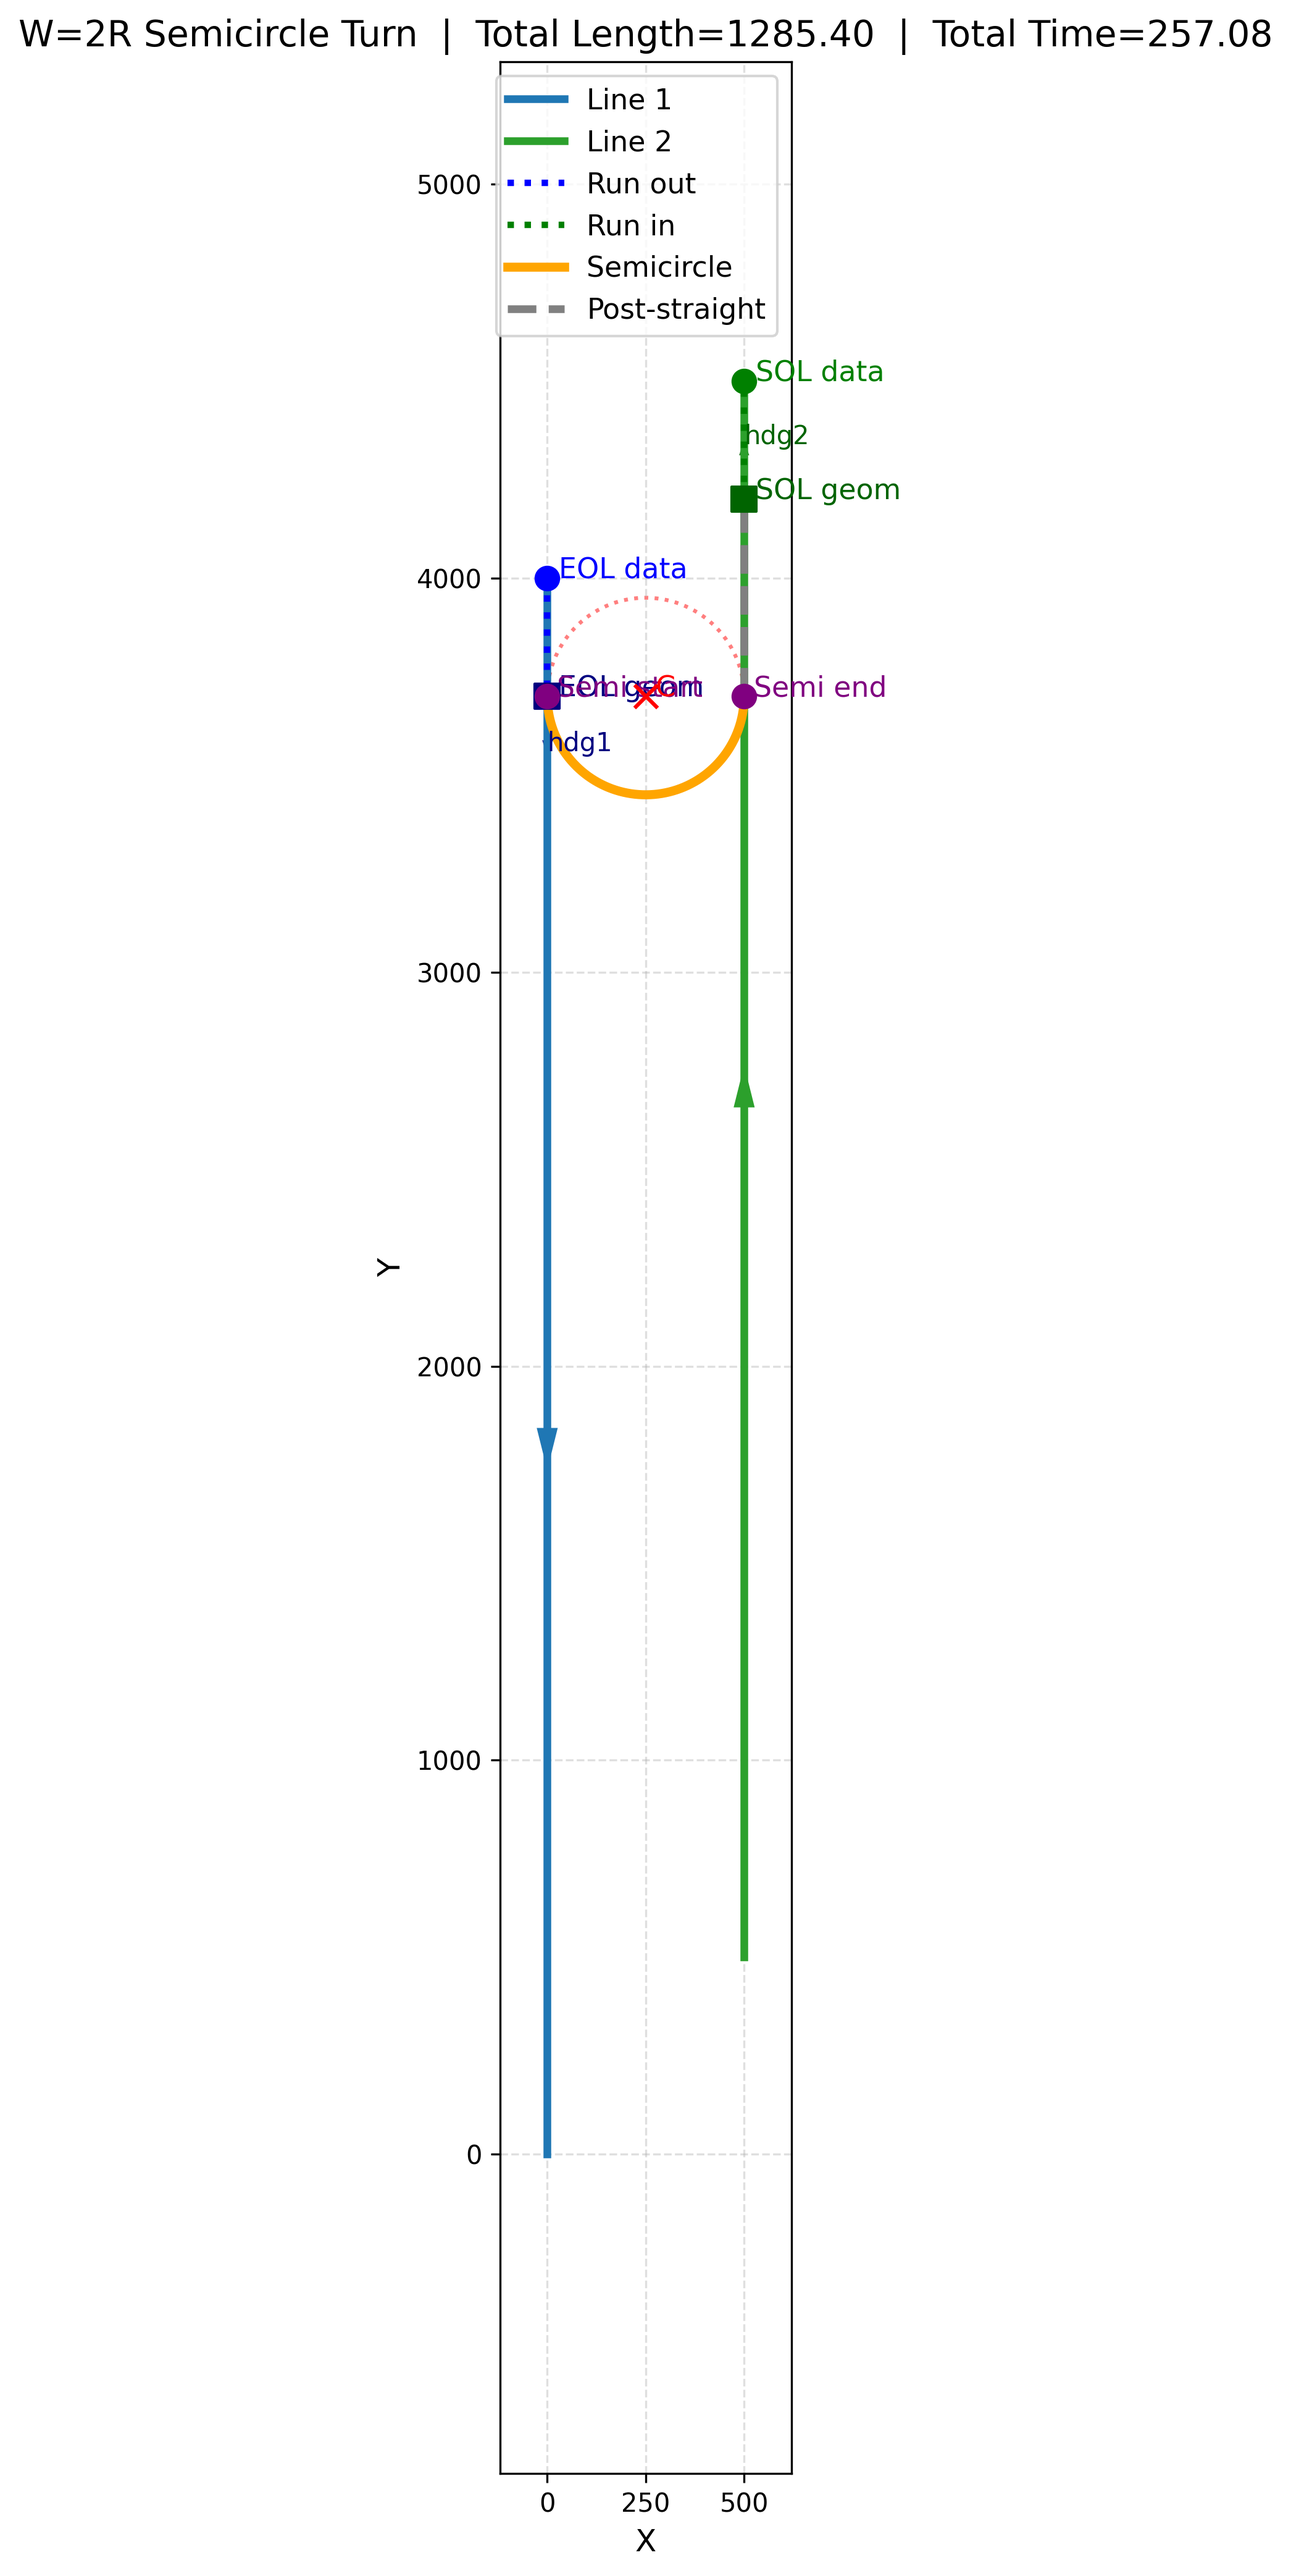
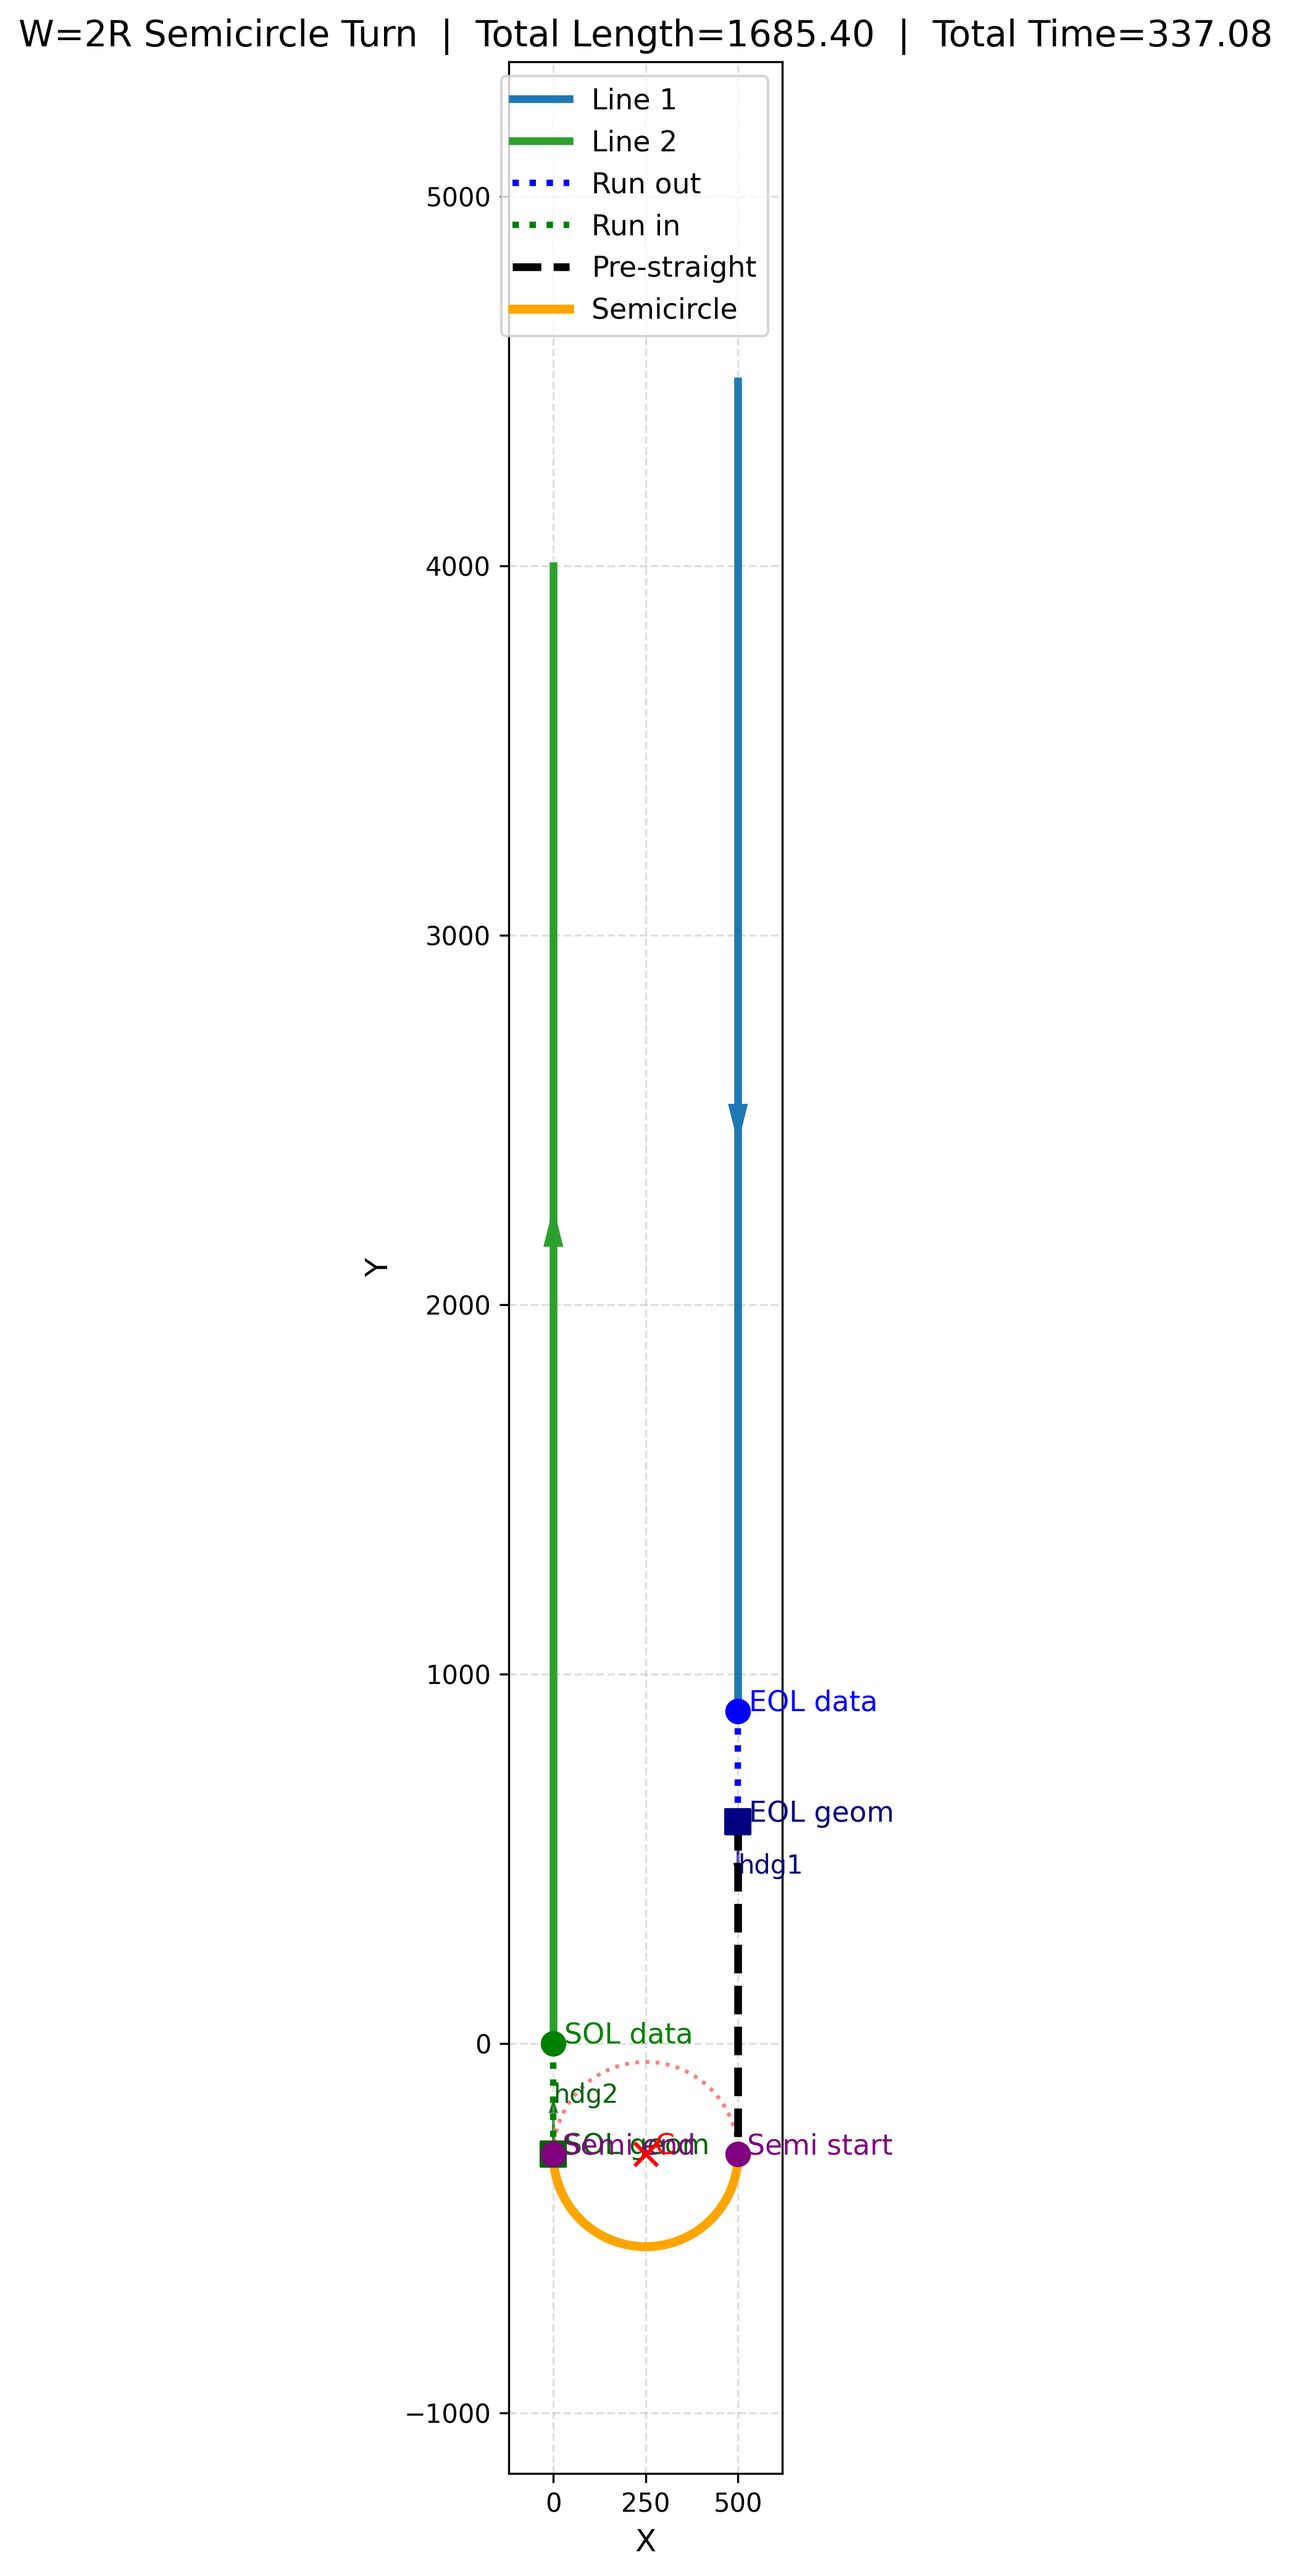
三种业务分支验证完成

Changed region(s): [[0.3419, 0.0312, 0.6217, 0.9664], [0.6528, 0.1247, 0.6839, 0.1559], [0.5595, 0.9664, 0.5906, 0.9976]]

diff --git a/three_arc.py b/three_arc.py
@@ -105,7 +105,16 @@ def solve_w_lt_2r_three_arc(
             print(f"[W<2R THREE-ARC] invalid: headings are not opposite enough, dot={heading_dot:.6f}")
         return ThreeArcTurnPath(valid=False)
 
-    y_turn = max(y1, y2)
+    # 根据起止航向的Y分量决定转弯侧：
+    # h1y > 0 (朝上) → 顶部转弯 → y_turn = max, C2 在上方
+    # h1y < 0 (朝下) → 底部转弯 → y_turn = min, C2 在下方
+    if h1y > 0:
+        y_turn = max(y1, y2)
+        turn_side = 1
+    else:
+        y_turn = min(y1, y2)
+        turn_side = -1
+
     turn_start = Point(x1, y_turn)
     turn_end = Point(x2, y_turn)
 
@@ -122,10 +131,18 @@ def solve_w_lt_2r_three_arc(
     pre_straight = distance(start_state.p, turn_start)
     post_straight = distance(turn_end, end_state.p)
 
-    if x2 > x1:
-        sequence = "LRL"
+    # 顶部转弯 (h1y>0): x2>x1 → LRL, x2<x1 → RLR
+    # 底部转弯 (h1y<0): 镜像翻转序列, x2>x1 → RLR, x2<x1 → LRL
+    if turn_side > 0:
+        if x2 > x1:
+            sequence = "LRL"
+        else:
+            sequence = "RLR"
     else:
-        sequence = "RLR"
+        if x2 > x1:
+            sequence = "RLR"
+        else:
+            sequence = "LRL"
 
     cosQ = (W / 2.0 + R) / (2.0 * R)
     cosQ = max(-1.0, min(1.0, cosQ))
@@ -137,13 +154,13 @@ def solve_w_lt_2r_three_arc(
     if x2 > x1:
         c1 = Point(x1 - R, y_turn)
         c3 = Point(x2 + R, y_turn)
-        c2 = Point(xm, y_turn + h)
-        turn1, turn2, turn3 = 'L', 'R', 'L'
+        c2 = Point(xm, y_turn + turn_side * h)
     else:
         c1 = Point(x1 + R, y_turn)
         c3 = Point(x2 - R, y_turn)
-        c2 = Point(xm, y_turn + h)
-        turn1, turn2, turn3 = 'R', 'L', 'R'
+        c2 = Point(xm, y_turn + turn_side * h)
+
+    turn1, turn2, turn3 = sequence[0], sequence[1], sequence[2]
 
     v12 = normalize(c2.x - c1.x, c2.y - c1.y)
     v32 = normalize(c2.x - c3.x, c2.y - c3.y)

diff --git a/main.py b/main.py
@@ -25,19 +25,66 @@ from three_arc import (
 
 if __name__ == "__main__":
     # 你当前测试例
+	# 左上->右下
     line1 = VerticalLine(
         x=0.0,
         y_start=0.0,
         y_end=4000.0,
-        direction=-1
+        direction=+1
     )
 
     line2 = VerticalLine(
-        x=500.0,
+        x=300.0,
         y_start=4500.0,
-        y_end=500.0,
-        direction=+1
+        y_end=900.0,
+        direction=-1
     )
+	
+	# # 左下->右上
+    # line1 = VerticalLine(
+    #     x=0.0,
+    #     y_start=4000.0,
+    #     y_end=0.0,
+    #     direction=-1
+    # )
+
+    # line2 = VerticalLine(
+    #     x=300.0,
+    #     y_start=900.0,
+    #     y_end=4500.0,
+    #     direction=+1
+    # )
+	
+	
+	# # 右上->左下
+    # line2 = VerticalLine(
+    #     x=0.0,
+    #     y_start=4000.0,
+    #     y_end=0.0,
+    #     direction=-1
+    # )
+
+    # line1 = VerticalLine(
+    #     x=300.0,
+    #     y_start=900.0,
+    #     y_end=4500.0,
+    #     direction=+1
+    # )
+	
+	# # 右下->左上
+    # line2 = VerticalLine(
+    #     x=0.0,
+    #     y_start=0.0,
+    #     y_end=4000.0,
+    #     direction=+1
+    # )
+
+    # line1 = VerticalLine(
+    #     x=300.0,
+    #     y_start=4500.0,
+    #     y_end=900.0,
+    #     direction=-1
+    # )
 
     L_out = 300.0
     L_in = 300.0
